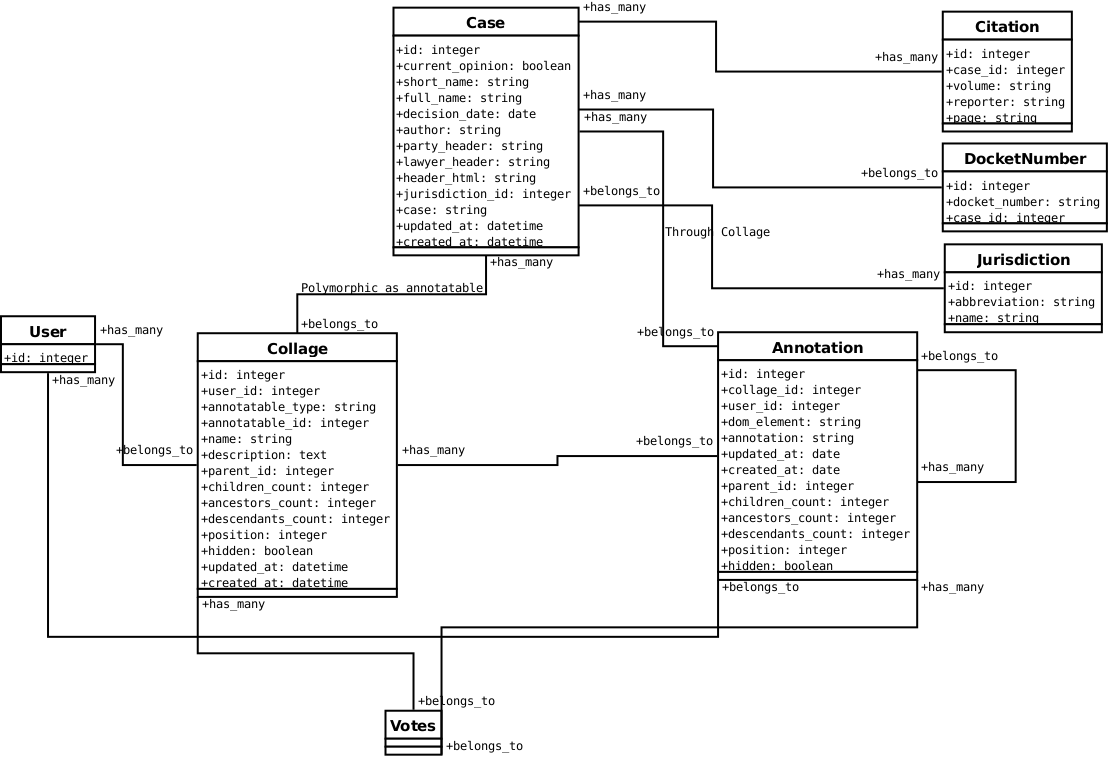
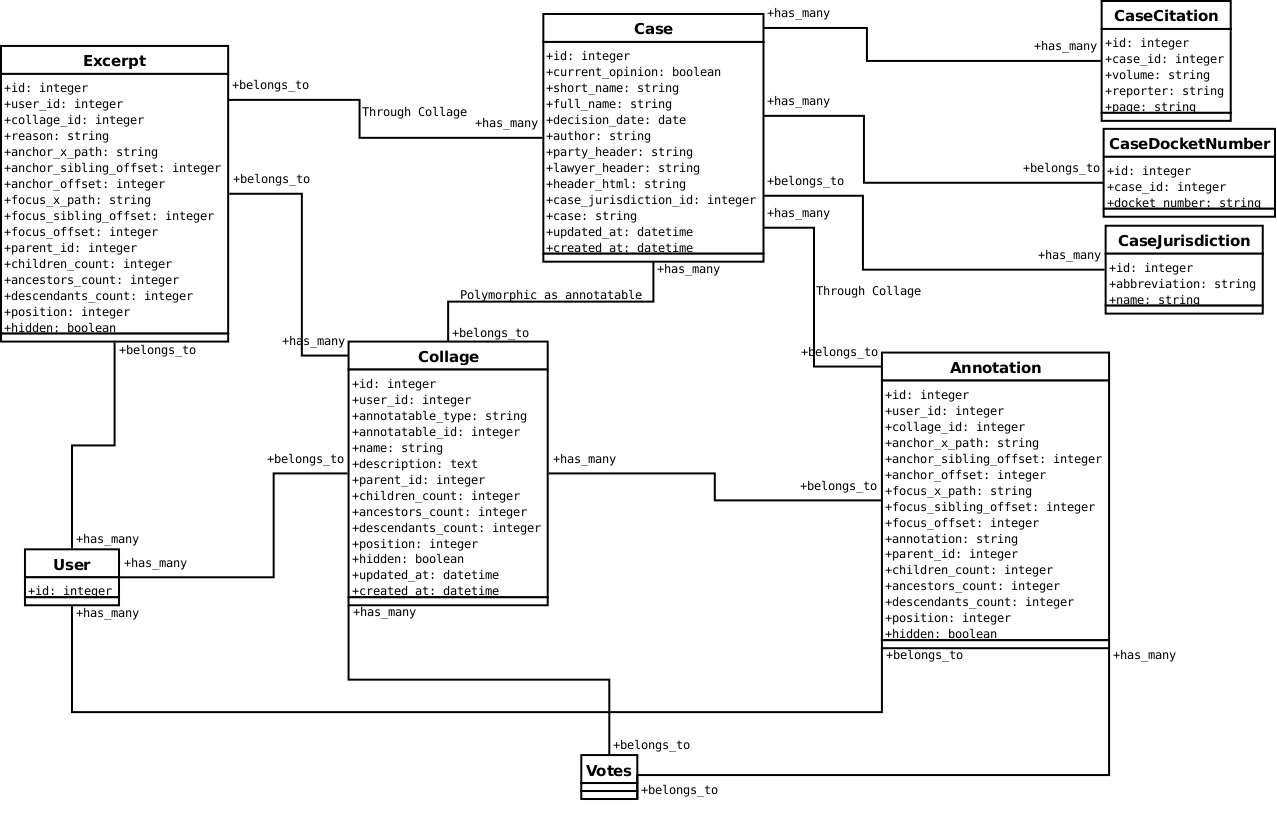
Annotations! Yay.
git-svn-id: https://adam.law.harvard.edu/svn/h2o/trunk@186 ac1452a4-9358-4c15-a3b0-de1119e254d8

Changed region(s): [[0.0, 0.0, 1.0, 0.9961]]

diff --git a/public/javascripts/collages.js b/public/javascripts/collages.js
@@ -130,6 +130,8 @@ formatRange: function(){
 },
 
 storeRange: function(rangeObj){
+  var collageId = jQuery('.collage-id').attr('id').split('-')[1];
+  rangeObj['collage_id'] = collageId;
   jQuery.ajax({
     type: 'POST',
     url: jQuery.rootPath() + 'excerpts/create',
@@ -216,8 +218,7 @@ getXPath: function(node, path) {
   }
   return path;
 },
-
-observe_excerpt_controls: function(){
+observeExcerptControls: function(){
   jQuery('#excerpt-selection').click(function(e){
     e.preventDefault();
     try{
@@ -234,10 +235,79 @@ observe_excerpt_controls: function(){
     } catch(err) {
       jQuery('#ajax-error').show().html(err);
     }
-
   });
 },
-initialize_excerpts: function(){
+
+observeAnnotationControls: function(){
+  jQuery('#annotate').click(function(e){
+
+    var rangeObj = jQuery.formatRange();
+
+    var submitAnnotation = function(){
+      jQuery('#new-annotation-form form').ajaxSubmit({
+        error: function(xhr){
+          jQuery('#spinner_block').hide();
+          jQuery('#new-annotation-error').show().append(xhr.responseText);
+        },
+        beforeSend: function(){
+          jQuery('#spinner_block').show();
+          jQuery('#new-annotation-error').html('').hide();
+        },
+        success: function(responseText){
+          jQuery('#spinner_block').hide();
+          jQuery('#new-annotation-form').dialog('close');
+        }
+        });
+    };
+    jQuery('#new-annotation-form').dialog({
+      bgiframe: true,
+      autoOpen: false,
+      minWidth: 300,
+      width: 450,
+      modal: true,
+      title: 'New Annotation',
+      buttons: {
+        'Save': submitAnnotation,
+        'Cancel': function(){
+          jQuery('#new-annotation-error').html('').hide();
+          jQuery(this).dialog('close');
+        }
+      }
+    });
+    e.preventDefault();
+    jQuery.ajax({
+      type: 'GET',
+      url: jQuery.rootPath() + 'annotations/new',
+      data: rangeObj,
+      cache: false,
+      beforeSend: function(){jQuery('#spinner_block').show()},
+      success: function(html){
+        jQuery('#spinner_block').hide();
+        jQuery('#new-annotation-form').html(html);
+        jQuery('#new-annotation-form').dialog('open');
+      },
+      error: function(xhr){
+        jQuery('#spinner_block').hide();
+        jQuery('div.ajax-error').show().append(xhr.responseText);
+      }
+    });
+    try{
+      if (window.console){
+        console.log(rangeObj);
+      }
+      var range = jQuery.createRange(rangeObj);
+//      jQuery.storeRange(rangeObj);
+//      jQuery.collapseRange(range);
+      if (window.console){
+        console.log(range);
+      }
+    } catch(err) {
+      jQuery('#ajax-error').show().html(err);
+    }
+  });
+},
+
+initializeExcerpts: function(){
   var collageId = jQuery('.collage-id').attr('id').split('-')[1];
   jQuery.ajax({
     type: 'GET',
@@ -263,7 +333,9 @@ insertAtClick: function(){
 });
 
 jQuery(document).ready(function(){
-    jQuery.observe_excerpt_controls();
-    jQuery.initialize_excerpts();
+    jQuery.observeExcerptControls();
+    jQuery.initializeExcerpts();
+    jQuery.observeAnnotationControls();
+//    jQuery.initializeAnnotations();
 //    jQuery.insertAtClick();
 });

diff --git a/db/schema.rb b/db/schema.rb
@@ -12,10 +12,15 @@
 ActiveRecord::Schema.define(:version => 20100517222624) do
 
   create_table "annotations", :force => true do |t|
-    t.integer  "collage_id"
     t.integer  "user_id"
-    t.string   "dom_element"
-    t.string   "annotation"
+    t.integer  "collage_id"
+    t.string   "annotation",            :limit => 10240
+    t.string   "anchor_x_path",         :limit => 1024
+    t.integer  "anchor_sibling_offset"
+    t.integer  "anchor_offset"
+    t.string   "focus_x_path",          :limit => 1024
+    t.integer  "focus_sibling_offset"
+    t.integer  "focus_offset"
     t.integer  "parent_id"
     t.integer  "children_count"
     t.integer  "ancestors_count"
@@ -25,6 +30,13 @@ ActiveRecord::Schema.define(:version => 20100517222624) do
     t.datetime "created_at"
     t.datetime "updated_at"
   end
+
+  add_index "annotations", ["ancestors_count"], :name => "index_annotations_on_ancestors_count"
+  add_index "annotations", ["children_count"], :name => "index_annotations_on_children_count"
+  add_index "annotations", ["descendants_count"], :name => "index_annotations_on_descendants_count"
+  add_index "annotations", ["hidden"], :name => "index_annotations_on_hidden"
+  add_index "annotations", ["parent_id"], :name => "index_annotations_on_parent_id"
+  add_index "annotations", ["position"], :name => "index_annotations_on_position"
 
   create_table "case_citations", :force => true do |t|
     t.integer  "case_id"
@@ -60,6 +72,27 @@ ActiveRecord::Schema.define(:version => 20100517222624) do
 
   add_index "case_jurisdictions", ["abbreviation"], :name => "index_case_jurisdictions_on_abbreviation"
   add_index "case_jurisdictions", ["name"], :name => "index_case_jurisdictions_on_name"
+
+  create_table "casebooks", :force => true do |t|
+    t.integer  "user_id"
+    t.string   "name",              :limit => 250
+    t.string   "description",       :limit => 65536
+    t.integer  "parent_id"
+    t.integer  "children_count"
+    t.integer  "ancestors_count"
+    t.integer  "descendants_count"
+    t.integer  "position"
+    t.boolean  "hidden"
+    t.datetime "created_at"
+    t.datetime "updated_at"
+  end
+
+  add_index "casebooks", ["ancestors_count"], :name => "index_casebooks_on_ancestors_count"
+  add_index "casebooks", ["children_count"], :name => "index_casebooks_on_children_count"
+  add_index "casebooks", ["descendants_count"], :name => "index_casebooks_on_descendants_count"
+  add_index "casebooks", ["hidden"], :name => "index_casebooks_on_hidden"
+  add_index "casebooks", ["parent_id"], :name => "index_casebooks_on_parent_id"
+  add_index "casebooks", ["position"], :name => "index_casebooks_on_position"
 
   create_table "cases", :force => true do |t|
     t.boolean  "current_opinion",                         :default => true

diff --git a/app/controllers/annotations_controller.rb b/app/controllers/annotations_controller.rb
@@ -25,10 +25,11 @@ class AnnotationsController < ApplicationController
   # GET /annotations/new.xml
   def new
     @annotation = Annotation.new
-
-    respond_to do |format|
-      format.html # new.html.erb
-      format.xml  { render :xml => @annotation }
+    [:anchor_x_path, :focus_x_path].each do |p|
+      @annotation[p] = params[p]
+    end
+    [:anchor_sibling_offset, :anchor_offset, :focus_sibling_offset,:focus_offset].each do |p|
+      @annotation[p] = (params[p] == 'null') ? nil : params[p]
     end
   end
 
@@ -41,13 +42,17 @@ class AnnotationsController < ApplicationController
   # POST /annotations.xml
   def create
     @annotation = Annotation.new(params[:annotation])
+    @annotation.accepts_role!(:annotater, current_user)
+    @annotation.user = current_user
 
     respond_to do |format|
       if @annotation.save
         flash[:notice] = 'Annotation was successfully created.'
+        format.json { render :json => {:message => 'Annotated!', :annotation_id => @annotation.id } }
         format.html { redirect_to(@annotation) }
         format.xml  { render :xml => @annotation, :status => :created, :location => @annotation }
       else
+        format.json { render :text => "We couldn't add that annotation. Sorry!<br/>#{@annotation.errors.full_messages.join('<br/>')}", :status => :unprocessable_entity }
         format.html { render :action => "new" }
         format.xml  { render :xml => @annotation.errors, :status => :unprocessable_entity }
       end

diff --git a/db/migrate/20100511172144_create_annotations.rb b/db/migrate/20100511172144_create_annotations.rb
@@ -1,19 +1,28 @@
+require 'migration_helpers'
 class CreateAnnotations < ActiveRecord::Migration
+  extend MigrationHelpers
   def self.up
     create_table :annotations do |t|
-      t.integer :collage_id
-      t.integer :user_id
-      t.string :dom_element
-      t.string :annotation
+      t.references :user
+      t.references :collage
+      t.string :annotation,             :limit => 10.kilobytes
+      t.string :anchor_x_path,          :limit => 1.kilobytes 
+      t.integer :anchor_sibling_offset
+      t.integer :anchor_offset
+      t.string :focus_x_path,           :limit => 1.kilobytes
+      t.integer :focus_sibling_offset
+      t.integer :focus_offset
       t.integer :parent_id
       t.integer :children_count
       t.integer :ancestors_count
       t.integer :descendants_count
       t.integer :position
       t.boolean :hidden
-
       t.timestamps
     end
+    create_foreign_key(Annotation,Collage)
+    create_foreign_key(Annotation,User)
+    create_acts_as_category_indexes(Annotation)
   end
 
   def self.down

diff --git a/app/models/annotation.rb b/app/models/annotation.rb
@@ -1,2 +1,15 @@
 class Annotation < ActiveRecord::Base
+  acts_as_voteable
+  acts_as_category :scope => :collage_id
+
+  acts_as_authorization_object
+
+  belongs_to :user
+  belongs_to :collage
+
+  validates_presence_of :annotation, :anchor_x_path, :focus_x_path
+  validates_length_of :annotation, :in => 1..(10.kilobytes)
+  validates_numericality_of :parent_id, :children_count, :ancestors_count, :descendants_count, :position, :allow_nil => true
+  validates_numericality_of :anchor_sibling_offset, :anchor_offset, :focus_sibling_offset, :focus_offset, :allow_nil => true
+  validates_length_of :anchor_x_path, :focus_x_path, :in => 1..(1.kilobytes)
 end

diff --git a/app/controllers/excerpts_controller.rb b/app/controllers/excerpts_controller.rb
@@ -45,12 +45,11 @@ class ExcerptsController < BaseController
     @excerpt = Excerpt.new(params[:excerpt])
     @excerpt.accepts_role!(:excerpter, current_user)
     @excerpt.user = current_user
-    @excerpt.collage_id = 1
 
     [:anchor_x_path, :focus_x_path].each do |p|
       @excerpt[p] = params[p]
     end
-    [:anchor_sibling_offset, :anchor_offset, :focus_sibling_offset,:focus_offset].each do |p|
+    [:anchor_sibling_offset, :anchor_offset, :focus_sibling_offset,:focus_offset,:collage_id].each do |p|
       @excerpt[p] = (params[p] == 'null') ? nil : params[p]
     end
 
